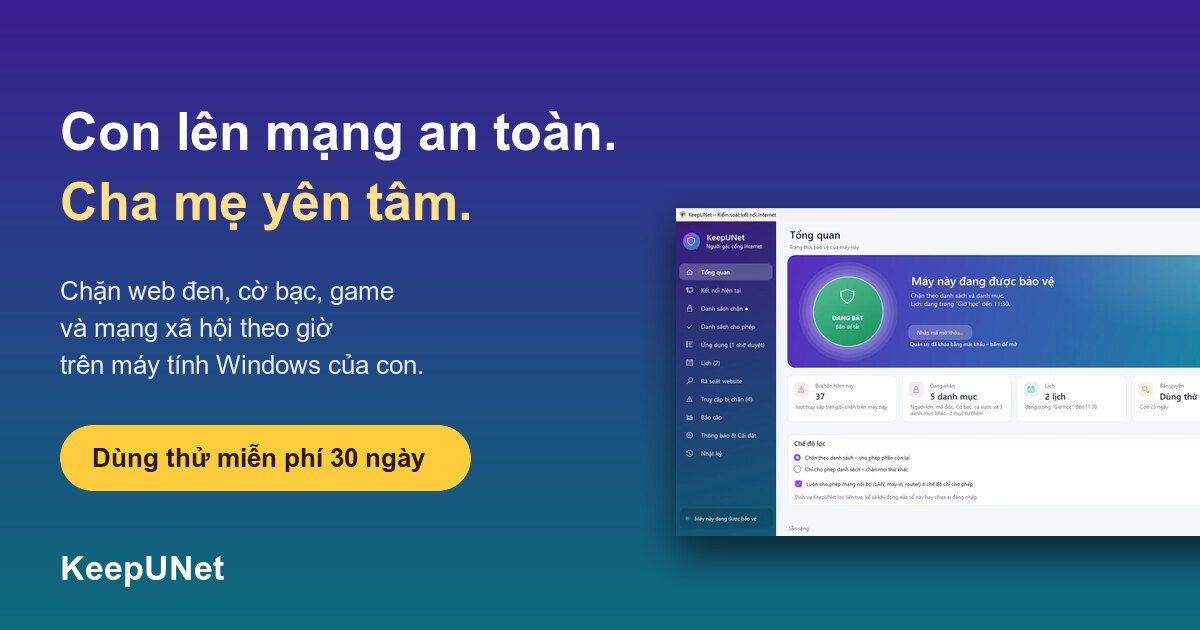
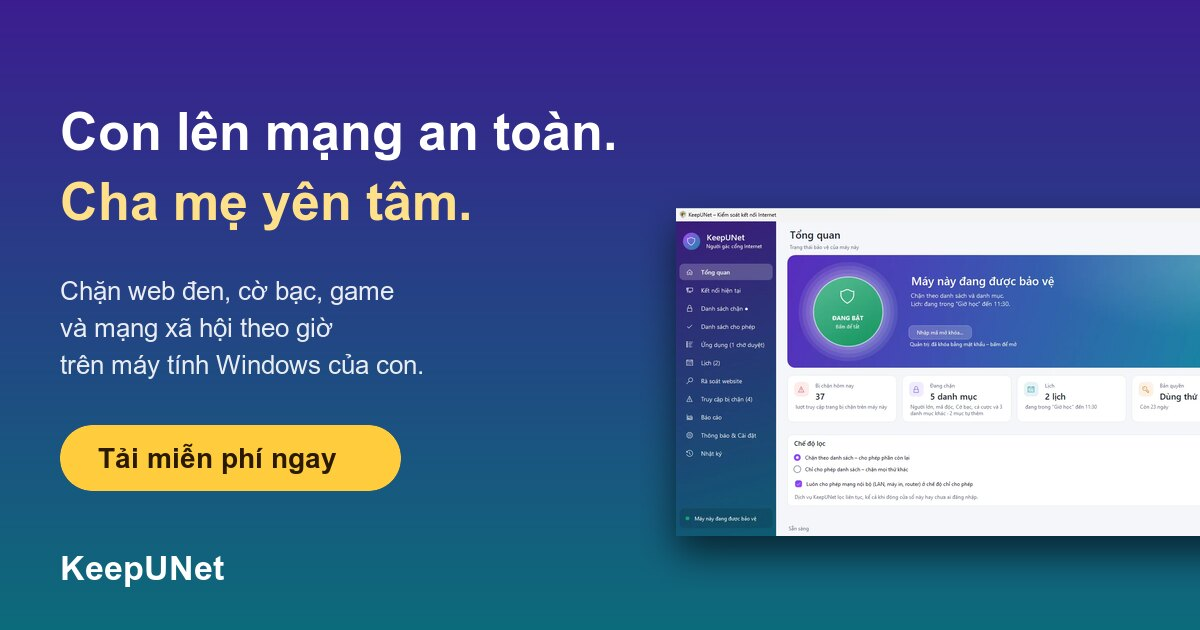
Lead the landing page with a free download

Changed region(s): [[0.0617, 0.6635, 0.4008, 0.7841]]

diff --git a/index.html b/index.html
@@ -4,14 +4,14 @@
 <meta charset="utf-8">
 <meta name="viewport" content="width=device-width, initial-scale=1">
 <title>KeepUNet – Chặn web đen, quản lý giờ lên mạng cho con trên máy tính Windows</title>
-<meta name="description" content="KeepUNet chặn web người lớn, cờ bạc, mạng xã hội trong giờ học và game quá giờ ngay trên máy tính Windows của con. Con không tự gỡ, không vượt rào được. Dùng thử miễn phí 30 ngày, từ 39.000 đ.">
+<meta name="description" content="KeepUNet chặn web người lớn, cờ bạc, mạng xã hội trong giờ học và game quá giờ ngay trên máy tính Windows của con. Con không tự gỡ, không vượt rào được. Tải miễn phí, dùng ngay đủ tính năng.">
 <meta name="theme-color" content="#2a1667">
 <link rel="icon" href="shield.svg" type="image/svg+xml">
 <link rel="canonical" href="https://l3dhung.github.io/keepunet-site/">
 <meta property="og:type" content="website">
 <meta property="og:locale" content="vi_VN">
 <meta property="og:title" content="KeepUNet – Con lên mạng an toàn, cha mẹ yên tâm">
-<meta property="og:description" content="Chặn web đen, cờ bạc, game và mạng xã hội theo giờ trên máy tính Windows của con. Dùng thử miễn phí 30 ngày.">
+<meta property="og:description" content="Chặn web đen, cờ bạc, game và mạng xã hội theo giờ trên máy tính Windows của con. Tải miễn phí, dùng ngay.">
 <meta property="og:url" content="https://l3dhung.github.io/keepunet-site/">
 <meta property="og:image" content="https://l3dhung.github.io/keepunet-site/img/og.jpg">
 <meta property="og:image:width" content="1200">
@@ -46,7 +46,7 @@
       <a href="#bang-gia">Bảng giá</a>
       <a href="#hoi-dap">Hỏi đáp</a>
     </nav>
-    <a class="btn btn-small btn-light" href="#tai-ve">Dùng thử miễn phí</a>
+    <a class="btn btn-small btn-light" href="https://github.com/l3dhung/keepunet-site/releases/latest/download/KeepUNet-Setup.msi">Tải miễn phí</a>
   </div>
 </header>
 
@@ -58,13 +58,13 @@
       <h1>Con lên mạng<br>an toàn.<br><span>Cha mẹ yên tâm.</span></h1>
       <p class="lead">KeepUNet chặn web người lớn, cờ bạc, mạng xã hội trong giờ học và game quá giờ ngay trên máy tính của con – kể cả khi con rành công nghệ hơn cả bố mẹ.</p>
       <div class="cta-row">
-        <a class="btn btn-primary" href="#tai-ve">Dùng thử 30 ngày miễn phí</a>
-        <a class="btn btn-ghost" href="#bang-gia">Xem bảng giá</a>
+        <a class="btn btn-primary" href="https://github.com/l3dhung/keepunet-site/releases/latest/download/KeepUNet-Setup.msi">⬇ Tải miễn phí ngay</a>
+        <a class="btn btn-ghost" href="#xem-thuc-te">▶ Xem phần mềm hoạt động</a>
       </div>
       <ul class="ticks">
-        <li>Không cần thẻ thanh toán</li>
+        <li>Không cần đăng ký</li>
         <li>Cài trong 5 phút</li>
-        <li>100% tiếng Việt</li>
+        <li>Dùng ngay đủ tính năng</li>
       </ul>
     </div>
     <div class="hero-shot">
@@ -141,7 +141,7 @@
   </div>
 </section>
 
-<section class="tour">
+<section class="tour" id="xem-thuc-te">
   <div class="wrap">
     <p class="eyebrow dark center">Xem thực tế</p>
     <h2 class="center">Đơn giản đến mức ai cũng dùng được</h2>
@@ -293,9 +293,9 @@
 <section class="final" id="tai-ve">
   <div class="wrap center">
     <h2>Bắt đầu bảo vệ máy tính của con ngay hôm nay</h2>
-    <p>Dùng thử đầy đủ tính năng trong 30 ngày, không cần thẻ thanh toán.</p>
+    <p>Tải về, cài trong 5 phút và dùng ngay đầy đủ tính năng – không cần đăng ký, không cần thẻ thanh toán.</p>
     <div class="cta-row center">
-      <a class="btn btn-primary btn-big" href="https://github.com/l3dhung/keepunet-site/releases/latest/download/KeepUNet-Setup.msi">⬇ Tải KeepUNet cho Windows</a>
+      <a class="btn btn-primary btn-big" href="https://github.com/l3dhung/keepunet-site/releases/latest/download/KeepUNet-Setup.msi">⬇ Tải miễn phí cho Windows</a>
       <a class="btn btn-ghost" href="https://zalo.me/0987755325" target="_blank" rel="noopener">Cần tư vấn? Nhắn Zalo</a>
     </div>
     <p class="small">Windows 10 / 11 · Bộ cài .msi · Tiếng Việt</p>
